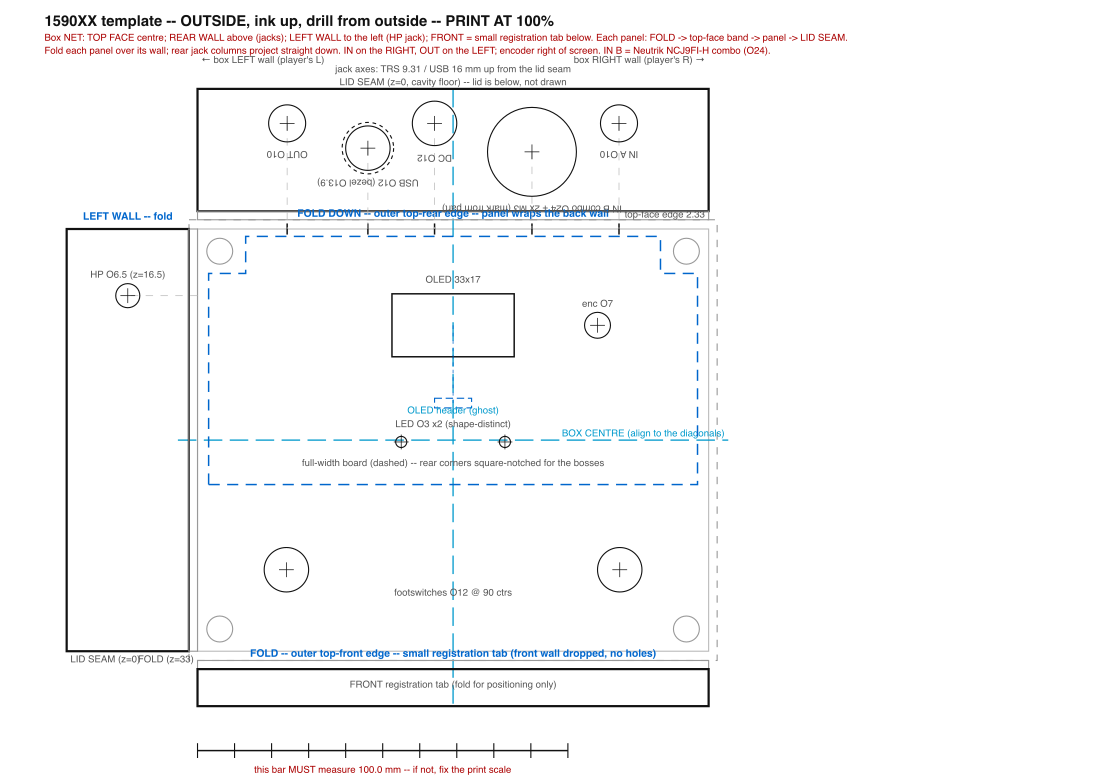
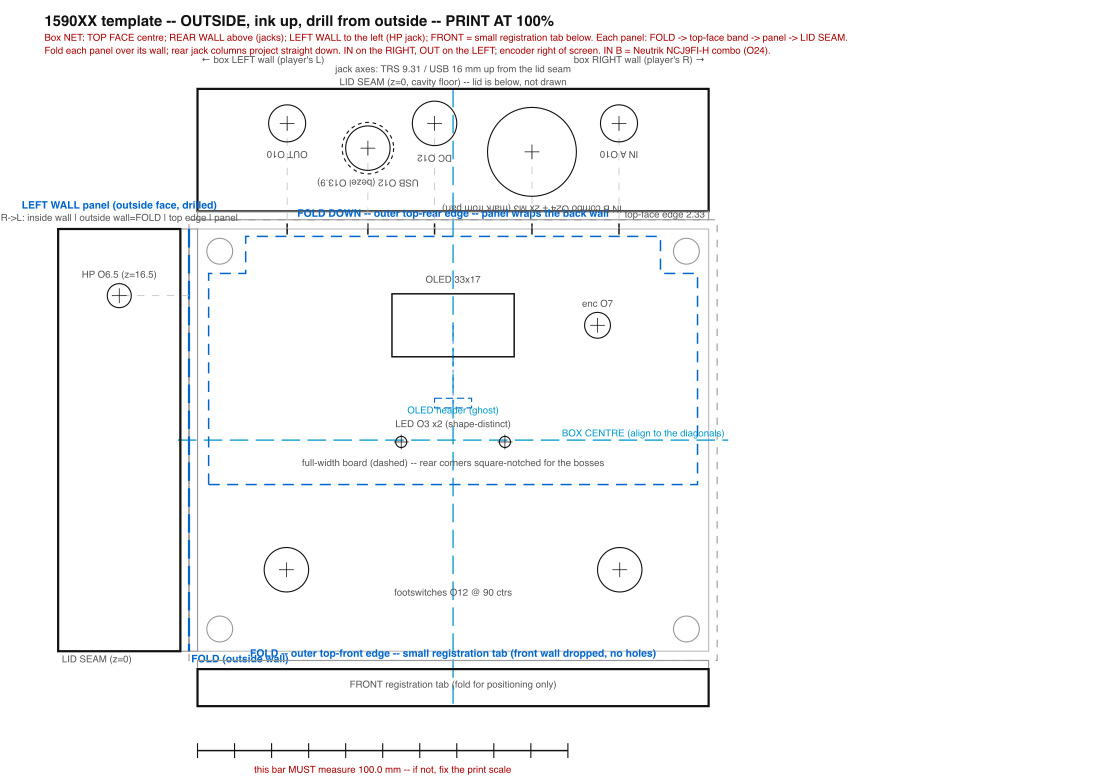
enclosure(mockup): fix the LEFT WALL fold structure
The left-wall panel now folds at the OUTSIDE wall face (ox-WALL_SIDE), matching the rear-wall
convention, and explicitly shows the sequence R->L: inside wall | wall thickness | outside wall =
FOLD | top-face edge (top of the left wall) | panel. Was folding at the internal edge with only a
top-face band. Regenerated SVG/PDF/preview.

Changed region(s): [[0.0, 0.2468, 0.2473, 0.8638]]

diff --git a/pcb/tools/gen_mockup_svg.py b/pcb/tools/gen_mockup_svg.py
@@ -192,18 +192,24 @@ for ref, label, xc, size, kind, z in e.REAR:
             s += _vtxt(TX(xc), hy + size/2 + 2.5, f"{label} O{size:g}", 'dim')
 
 # ============================================================ LEFT WALL panel (fold-out, to the LEFT) =
-# Folds off the top face's LEFT edge. Drawn extending leftward: LID SEAM (far/left) -> panel (CAVITY_H)
-# -> top-face band -> FOLD (at x=ox). z measured UP from the lid seam toward the fold.
-LXS = ox - WALL_TOP - CAVITY_H                                        # left-wall lid seam (leftmost)
-def LX(z): return LXS + z
-s += _rect(LXS, oy, CAVITY_H, BOX_D, sw=0.6)                          # the left wall panel itself
-s += _rect(ox - WALL_TOP, oy, WALL_TOP, BOX_D, stroke='#999', sw=0.3) # top-face band next to the fold
-s += _txt(LXS + CAVITY_H/2, oy - 2.5, "LEFT WALL -- fold", 'fold')
+# From the top face's internal left edge (ox) OUTWARD to the left (matches the rear-wall fold):
+#   [inside wall @ ox] -> WALL_SIDE wall thickness -> [outside wall = FOLD @ ox-WALL_SIDE]
+#   -> WALL_TOP top-face band (= top edge of the left wall) -> left wall PANEL (CAVITY_H) -> LID SEAM.
+LW_FOLD = ox - WALL_SIDE                    # outside wall face = the fold line (external left edge)
+LW_BAND = LW_FOLD - WALL_TOP                # inner edge of the top-face band (= top edge of the left wall)
+LXS     = LW_BAND - CAVITY_H                # left-wall panel lid seam (leftmost)
+def LX(z): return LXS + z                   # z up from the lid seam toward the fold
+s += _rect(LW_FOLD, oy, WALL_SIDE, BOX_D, stroke='#999', sw=0.3)      # left wall thickness (inside..outside)
+s += _rect(LW_BAND, oy, WALL_TOP, BOX_D, stroke='#999', sw=0.3)       # top-face band = top edge of the left wall
+s += _rect(LXS, oy, CAVITY_H, BOX_D, sw=0.6)                          # the left wall PANEL (outside face, drilled)
+s += _line(LW_FOLD, oy, LW_FOLD, oy + BOX_D, stroke='#06c', dash='5 2', sw=0.6)   # FOLD = outside wall edge
+s += _txt(LXS + CAVITY_H/2, oy - 5.5, "LEFT WALL panel (outside face, drilled)", 'fold', 'middle')
+s += _txt(LXS + CAVITY_H/2, oy - 2.2, "R->L: inside wall | outside wall=FOLD | top edge | panel", 'dim', 'middle')
 s += _txt(LXS + 1, oy + BOX_D + 3, "LID SEAM (z=0)", 'dim', 'start')
-s += _txt(ox - 1, oy + BOX_D + 3, f"FOLD (z={CAVITY_H:g})", 'dim', 'end')
+s += _txt(LW_FOLD + 0.6, oy + BOX_D + 3, "FOLD (outside wall)", 'fold', 'start')
 for ref, label, yc, dia, kind, z in e.LEFT:
     hx2, hy2 = LX(z), TY(yc)
-    s += _line(ox, hy2, hx2, hy2, stroke='#bbb', dash='2 2', sw=0.2)  # projection to the fold edge
+    s += _line(LW_FOLD, hy2, hx2, hy2, stroke='#bbb', dash='2 2', sw=0.2)  # projection from the fold edge
     s += _circ(hx2, hy2, dia) + _cross(hx2, hy2)
     s += _txt(hx2, hy2 - dia/2 - 1.6, f"{label} O{dia:g} (z={z:g})", 'dim')
 
